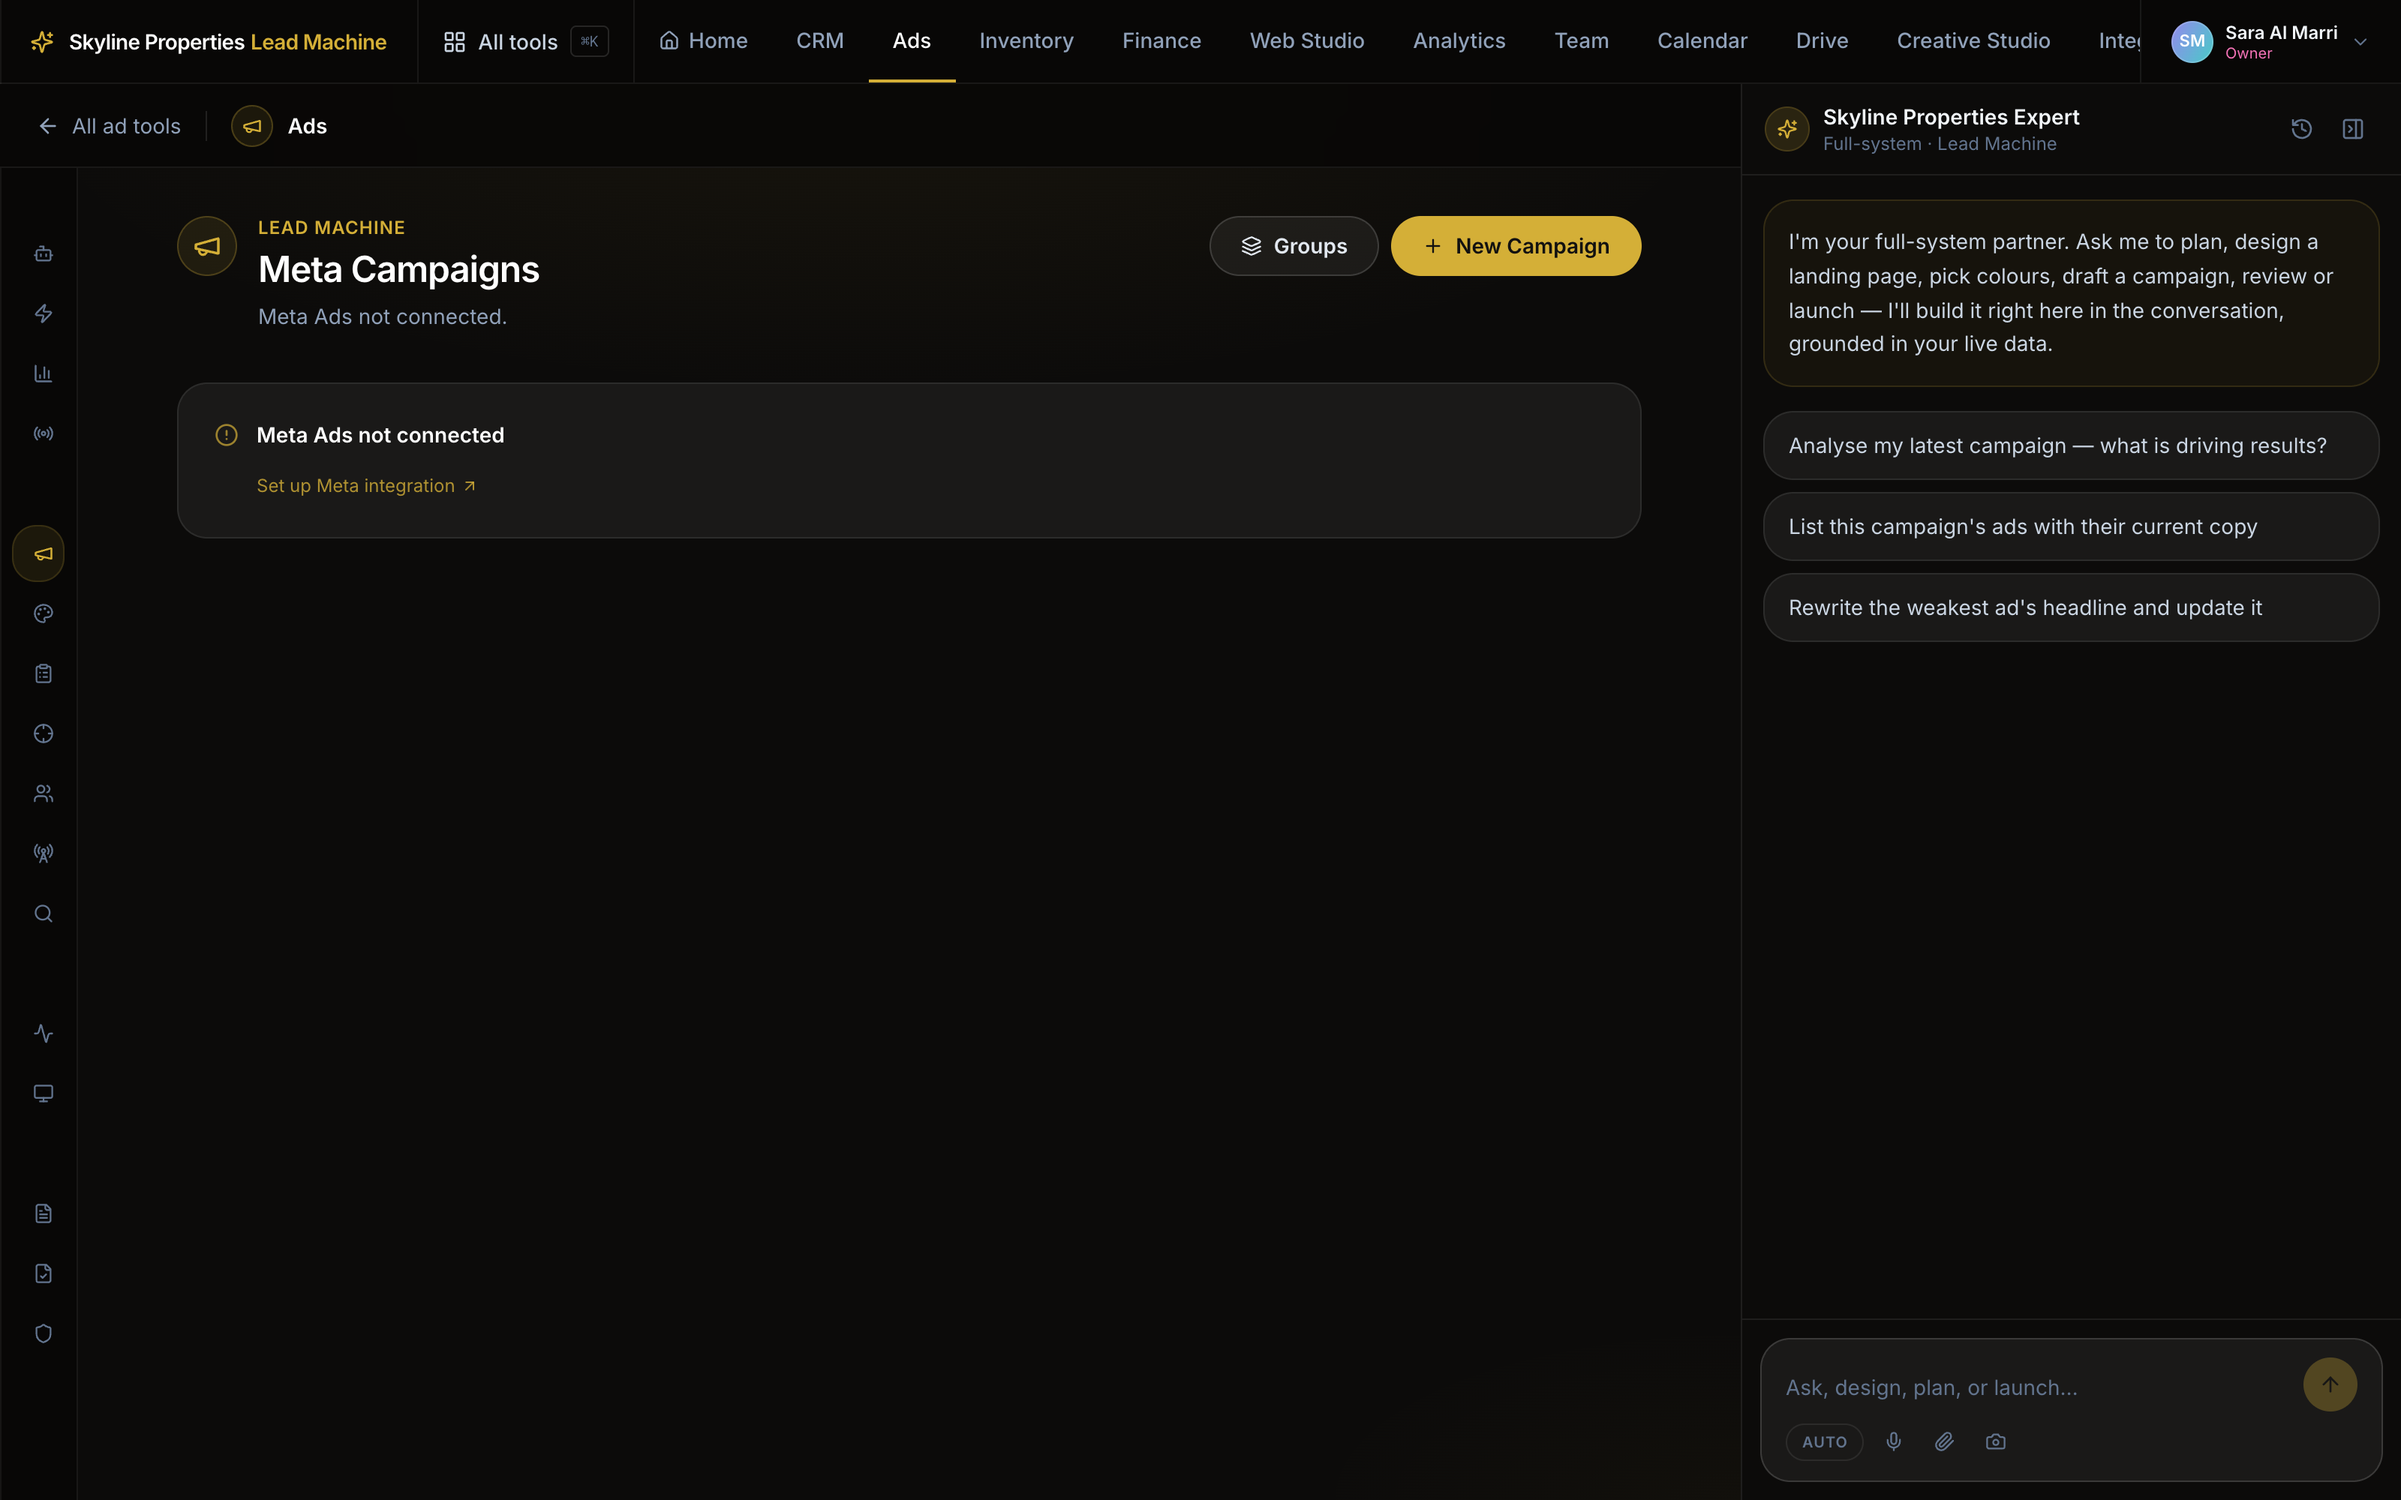
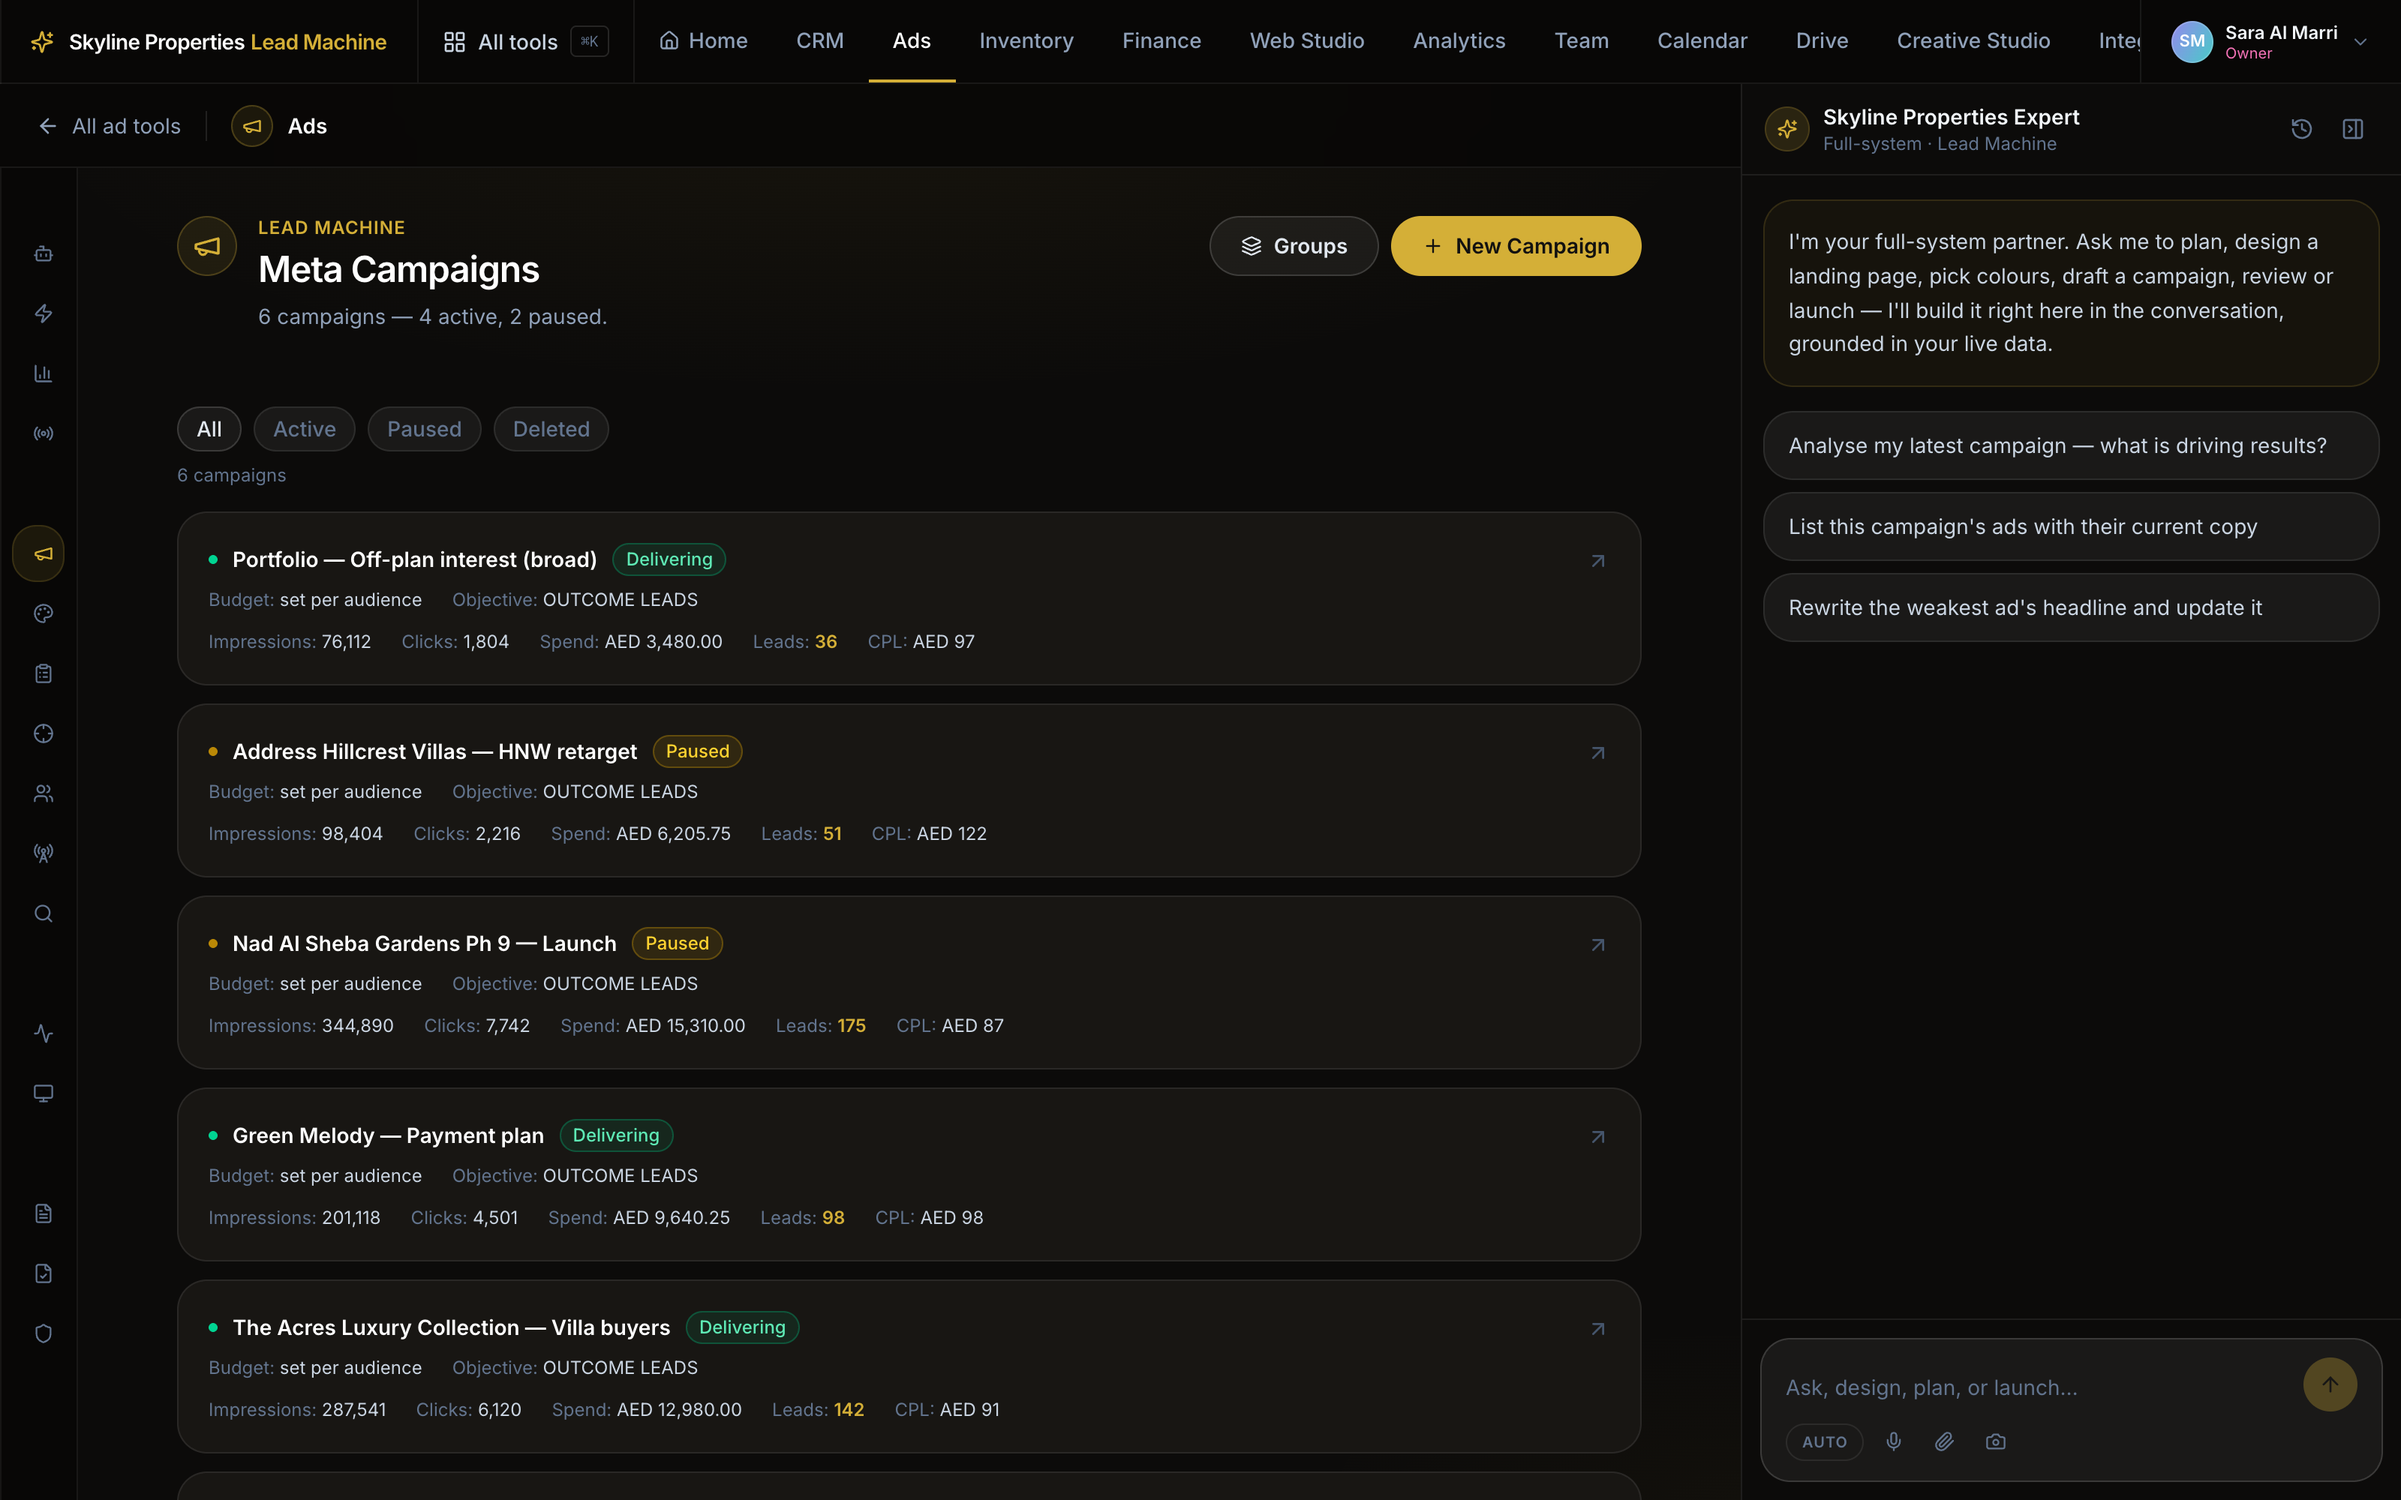
business: data-rich loop slabs + recaptured screens with the dressed workspace
The four stale/empty captures (inventory 0/0, landings 0, campaigns and
forms not-connected) recaptured against the seeded skyline workspace:
621-unit inventory with an expanded developer group, 15 live landing
pages, six sandbox campaigns with spend/leads/CPL, four lead forms each
carrying its CRM rate. Loop stages retuned: each thumb zooms onto its
screen's number region (21/621 units, 15 live, campaign rows, the lead
book, seed depth 18/18, priced audience templates); Learning and
Targeting now use audience-lab and targeting captures. Explorer copy
updated to match the connected screens.

diff --git a/components/business/explorer.tsx b/components/business/explorer.tsx
@@ -103,12 +103,12 @@ const GROUPS: Group[] = [
         label: 'Campaign desk',
         screen: '/business/screens/campaigns.webp',
         title: 'skyline.entrestate.com/ads',
-        alt: 'The Meta campaign desk, dark until Meta is connected, with the docked expert alongside',
+        alt: 'The Meta campaign desk listing six campaigns with delivery badges, impressions, clicks, spend, leads and CPL per row',
         keyword: 'Ads with brakes.',
-        caption: 'The campaign desk stays dark until you connect Meta. Then it runs.',
+        caption: 'Every campaign on one desk — spend, leads and cost-per-lead printed per row.',
         learn: '/business/docs/launch-a-campaign',
         cards: [
-          { title: 'Off until connected', body: 'No Meta connection, no spend — the desk says so.' },
+          { title: 'CPL on every row', body: 'Impressions, clicks, spend, leads, cost-per-lead.' },
           { title: 'One-button launch', body: 'New Campaign opens the wizard from the desk.' },
           { title: 'An expert docked', body: 'Ask what is driving results, in plain words.' },
         ],
@@ -214,13 +214,13 @@ const GROUPS: Group[] = [
         label: 'Lead forms',
         screen: '/business/screens/forms.webp',
         title: 'skyline.entrestate.com/ads/forms',
-        alt: 'Lead gen forms with a New form button, gated until Meta Ads is connected',
+        alt: 'Lead gen forms, each row carrying its CRM count, average value rating and rated share',
         keyword: 'Forms, straight in.',
-        caption: 'Instant Meta lead forms, built here — dark until Meta connects.',
+        caption: 'Every form carries its own rate — leads in the CRM, value rating, rated share.',
         learn: '/business/docs/lead-flow',
         cards: [
+          { title: 'The form’s rate', body: 'Leads in CRM, average value, how many rated — per form.' },
           { title: 'One-button form', body: 'New form starts the builder from the header.' },
-          { title: 'Gated honestly', body: 'Meta Ads not connected — the screen says so.' },
           { title: 'Ask the expert', body: 'Draft a form for the newest listing, docked.' },
         ],
       },
@@ -235,7 +235,7 @@ const GROUPS: Group[] = [
         label: 'Inventory',
         screen: '/business/screens/inventory.webp',
         title: 'skyline.entrestate.com/inventory',
-        alt: 'Inventory grouped by developer with counters for developers, units, live pages and active campaigns, and search',
+        alt: 'Inventory grouped by developer — 21 developers, 621 units — with Emaar expanded into priced, lead-counted project rows',
         keyword: 'Know your stock.',
         caption: 'Stock grouped by developer — units, live pages and campaigns counted.',
         learn: '/business/docs/inventory',
@@ -250,7 +250,7 @@ const GROUPS: Group[] = [
         label: 'Landing pages',
         screen: '/business/screens/landings.webp',
         title: 'skyline.entrestate.com/inventory/landing-pages',
-        alt: 'Landing pages with live, pending, draft and missing tiles, a Generate all button and per-property ad-ready scores',
+        alt: 'Landing pages across 621 properties — 15 live, missing ones flagged with Generate all — each row scored ad-ready',
         keyword: 'A page per property.',
         caption: 'Every property carries a dedicated ad landing page — missing ones flagged.',
         learn: '/business/docs/landing-pages',

diff --git a/components/business/loop.tsx b/components/business/loop.tsx
@@ -30,48 +30,48 @@ const STAGES: Stage[] = [
     name: 'Listing',
     line: 'Stock scored and fit to advertise.',
     shot: '/business/screens/inventory.webp',
-    alt: 'Inventory grouped by developer — projects, units, live pages and active campaigns counted.',
-    zoom: '240%', x: '-8%', y: '-26%',
+    alt: 'Inventory counters — 21 developers, 621 units — above the first developer group.',
+    zoom: '294%', x: '-38.2%', y: '-36.1%',
   },
   {
     n: '02',
     name: 'Landing',
     line: 'Every listing gets a page that converts.',
     shot: '/business/screens/landings.webp',
-    alt: 'Landing pages tracked per property: live, pending, draft, missing.',
-    zoom: '240%', x: '-8%', y: '-24%',
+    alt: 'Landing page tiles — 15 live across 621 properties, missing pages flagged.',
+    zoom: '294%', x: '-38.2%', y: '-50.8%',
   },
   {
     n: '03',
     name: 'Ads',
     line: 'Campaigns with caps, launched paused.',
     shot: '/business/screens/campaigns.webp',
-    alt: 'Meta campaigns screen with a new campaign ready to create.',
-    zoom: '240%', x: '-8%', y: '-22%',
+    alt: 'Campaign rows with delivery badges, spend, leads and cost per lead.',
+    zoom: '313%', x: '-18.8%', y: '-98.2%',
   },
   {
     n: '04',
     name: 'Lead',
     line: 'Answered fast, owned, in WhatsApp.',
     shot: '/business/screens/crm-leads.webp',
-    alt: 'CRM command centre: nine leads across seven stages, hot leads flagged.',
-    zoom: '240%', x: '-6%', y: '-28%',
+    alt: 'The lead book — named leads with heat, stage, project and budget on every row.',
+    zoom: '294%', x: '-8.8%', y: '-167.3%',
   },
   {
     n: '05',
     name: 'Learning',
     line: 'Every rating teaches what to buy.',
-    shot: '/business/screens/forms.webp',
-    alt: 'Lead forms screen — the answers that grade every buyer.',
-    zoom: '240%', x: '-8%', y: '-24%',
+    shot: '/business/screens/audience-lab.webp',
+    alt: 'Audience Lab seed depth — rated leads counted into a lookalike seed.',
+    zoom: '278%', x: '-19.5%', y: '-121.3%',
   },
   {
     n: '06',
     name: 'Targeting',
     line: 'Audiences from real buyers, not guesses.',
-    shot: '/business/screens/audiences.webp',
-    alt: 'Audience builder: special buyers, described buyers, CRM audiences, lookalikes.',
-    zoom: '240%', x: '-8%', y: '-24%',
+    shot: '/business/screens/targeting.webp',
+    alt: 'Audience templates priced with expected CPL, budget and leads per week.',
+    zoom: '250%', x: '-17.5%', y: '-127.3%',
   },
 ]
 
